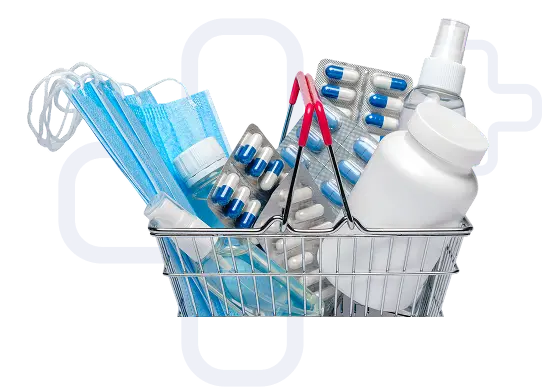
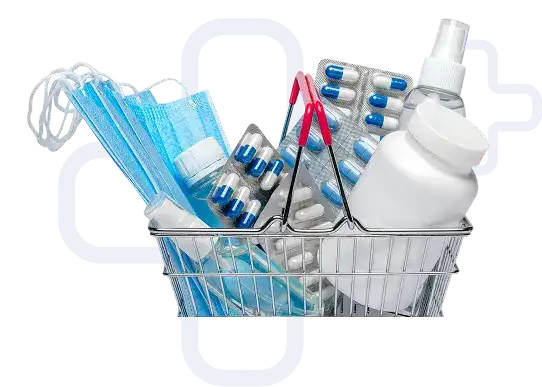
fix performance

diff --git a/modules/landing/components/metallic-banner/metallic-banner.tsx b/modules/landing/components/metallic-banner/metallic-banner.tsx
@@ -11,6 +11,7 @@ interface MetallicBannerProps {
   onClick?: () => void;
   className?: string;
   openInNewTab?: boolean;
+  unoptimized?: boolean;
 }
 
 const MetallicBanner: React.FC<MetallicBannerProps> = ({
@@ -20,6 +21,7 @@ const MetallicBanner: React.FC<MetallicBannerProps> = ({
   onClick = () => console.log("Banner clicked"),
   className = "",
   openInNewTab = false,
+  unoptimized = false,
 }) => {
   const handleClick = () => {
     if (!href) {
@@ -45,8 +47,7 @@ const MetallicBanner: React.FC<MetallicBannerProps> = ({
           width={imagen?.desktop?.width}
           height={imagen?.desktop?.height}
           className="object-contain w-full h-full transition-all duration-700 hidden md:block"
-          unoptimized={true}
-          priority
+          unoptimized={unoptimized}
           sizes="(max-width: 768px) 100vw, (max-width: 1440px) 50vw, 33vw"
         />
 
@@ -57,8 +58,7 @@ const MetallicBanner: React.FC<MetallicBannerProps> = ({
           width={imagen?.mobile?.width}
           height={imagen?.mobile?.height}
           className="object-contain w-full h-full transition-all duration-700 block md:hidden"
-          unoptimized={true}
-          priority
+          unoptimized={unoptimized}
           sizes="(max-width: 768px) 100vw, (max-width: 1200px) 50vw, 33vw"
         />
 

diff --git a/modules/landing/containers/home-banner-mini-container.tsx b/modules/landing/containers/home-banner-mini-container.tsx
@@ -17,6 +17,7 @@ const HomeBannerMini = ({ banners }: Props) => {
             className="rounded-none"
             imagen={banner?.imagen}
             alt={banner?.text}
+            unoptimized
           />
         </picture>
       ))}
